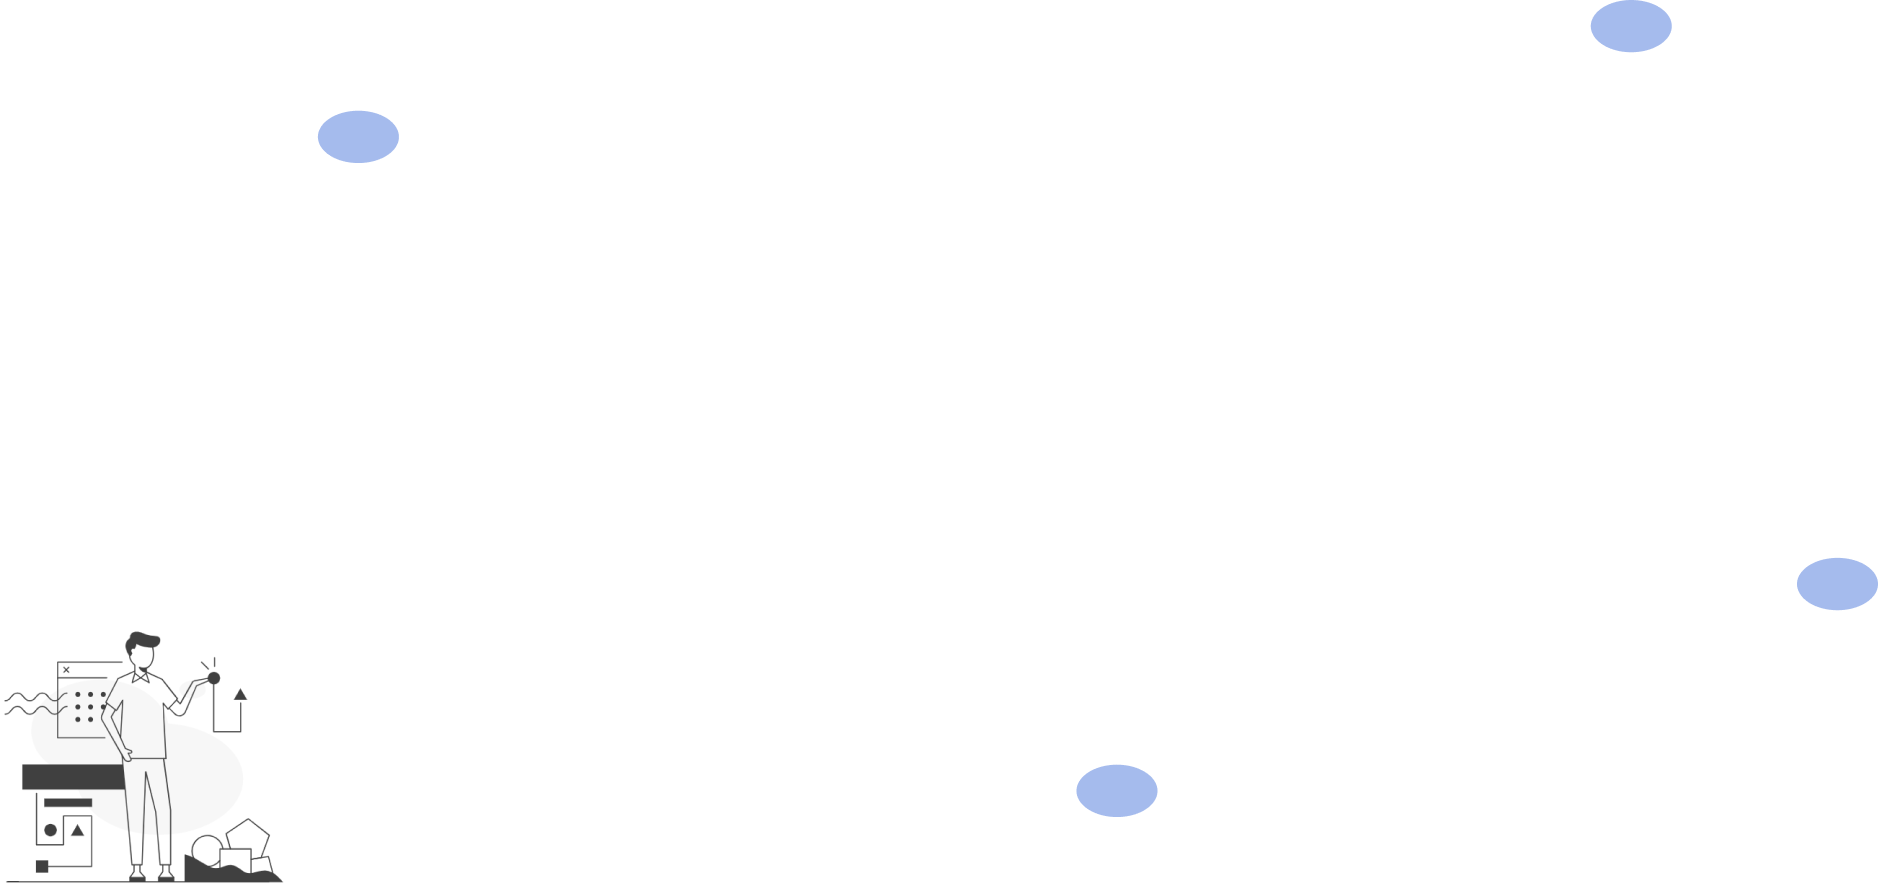
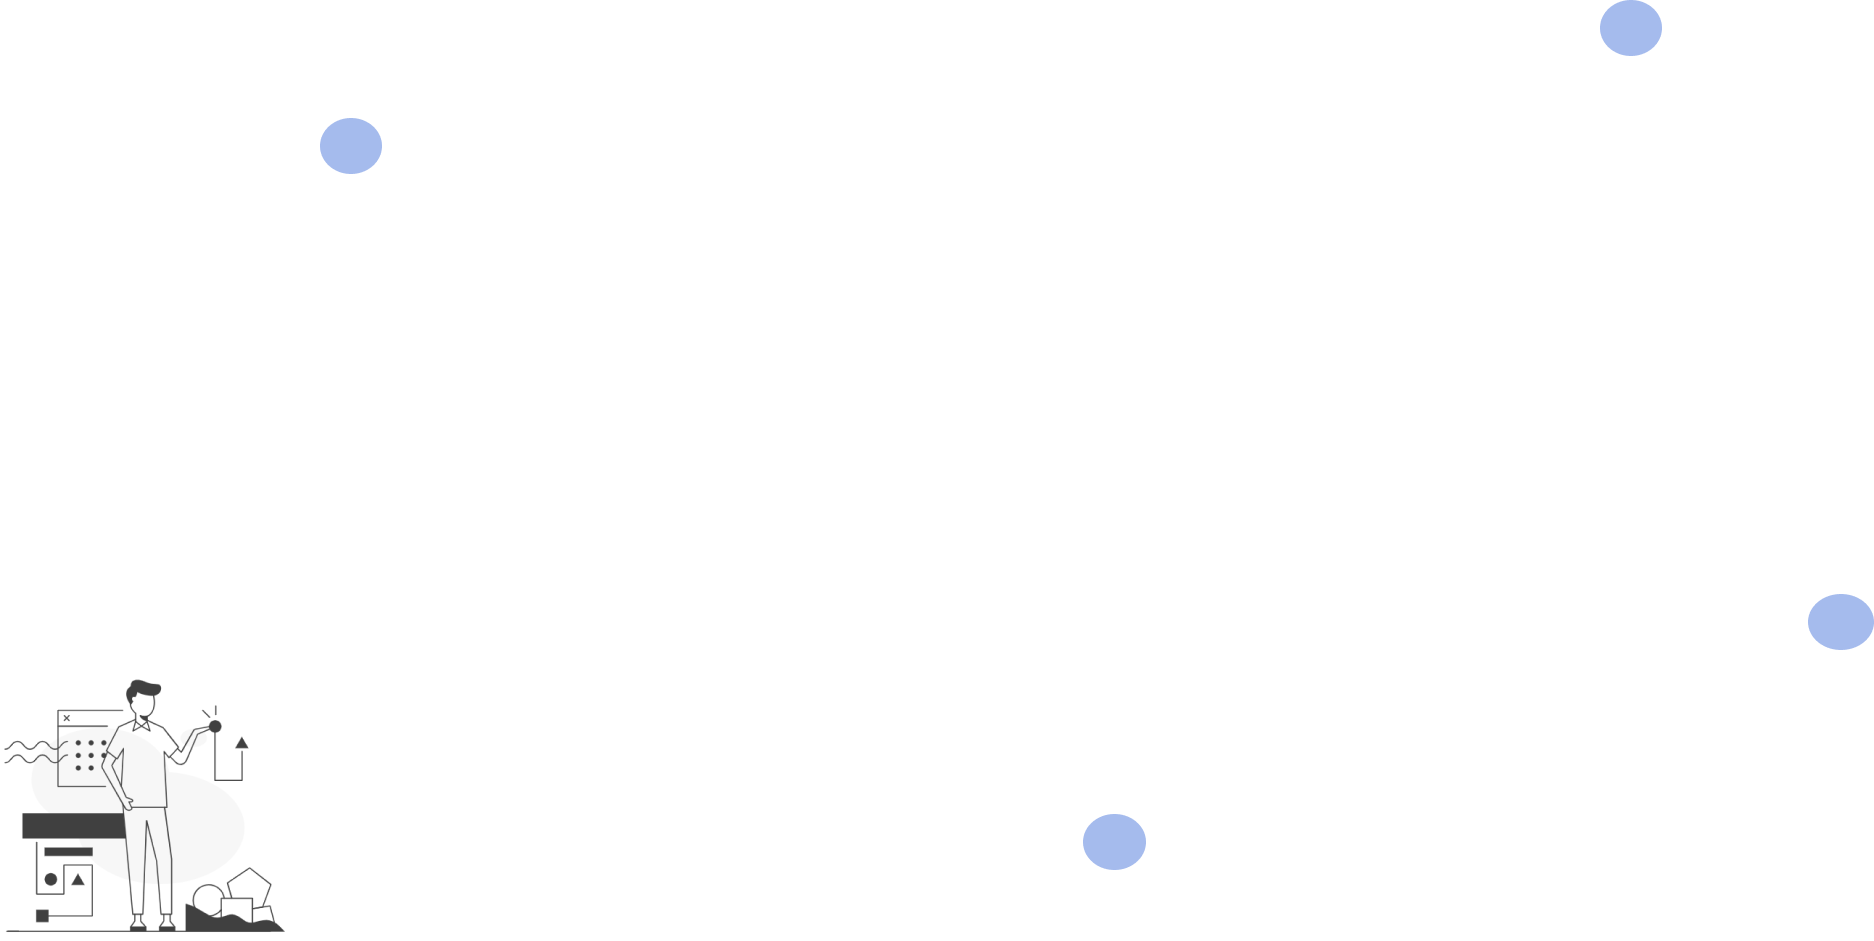
tela de home do adm terminada
commit para enviar a tela de home do adm

diff --git a/css/styles.css b/css/styles.css
@@ -2342,85 +2342,75 @@ input.cadastrovagas {
 /* ADM HOME */
 
 .body-adm-home{
-    background-color:#D9D9D9;
+    background-color:#ffffff;
 }
+
 
 .main-adm-home{
     font-family: Verdana, Geneva, Tahoma, sans-serif;
-    /* background-image:url(../Imagens/background-image-adm-home.png);
-    background-repeat:no-repeat; */
 }
 
-/* .sphere-adm-home{
-    position:absolute;
-    height: 72px;
-    width: 80px;
-    background-color: #1E55D1;
-    border-radius: 50%;
-    display: inline-block;
-    margin-top:3.5rem;
-    left:85%;
-    opacity:50%;
+@media(min-width:1140px){
+    .main-adm-home{
+        background-image:url(../Imagens/background-image-adm-home.png);
+        background-repeat:no-repeat;
+    }
 }
-
-.sphere-adm-home2{
-    position:absolute;
-    height: 72px;
-    width: 80px;
-    background-color: #1E55D1;
-    border-radius: 50%;
-    display: inline-block;
-    margin-top:13rem;
-    left:15%;
-    opacity:50%;
-}
-
-.sphere-adm-home3{
-    position:absolute;
-    height: 72px;
-    width: 80px;
-    background-color: #1E55D1;
-    border-radius: 50%;
-    display: inline-block;
-    margin-top:45rem;
-    left:94%;
-    opacity:50%;
-}
-
-.sphere-adm-home4{
-    position:absolute;
-    height: 72px;
-    width: 80px;
-    background-color: #1E55D1;
-    border-radius: 50%;
-    display: inline-block;
-    margin-top:56rem;
-    left:46%;
-    opacity:50%;
-} */
 
 #label-bem-vindos-adm-home{
     margin-top:10rem;
     position:absolute;
+    font-size:x-large;
 }
-#label-quadrados-1-adm-home{
-    background-color:#970FF2;
-    color:#FFFFFF;
-    border-radius:5%;
-    padding:50px;
+
+ /* faz os quadrados ficarem alinhados horizontalmente */
+@media(min-width:992px){
+    #label-quadrados-1-adm-home{
+        background-color:#970FF2;
+        color:#FFFFFF;
+        border-radius:5%;
+        padding:50px;
+    }
+    #label-quadrados-2-adm-home{
+        background-color:#F24607;
+        color:#FFFFFF;
+        border-radius:5%;
+        padding:50px;
+    }
+    #label-quadrados-3-adm-home{
+        background-color:#49D907;
+        color:#FFFFFF;
+        border-radius:5%;
+        padding:50px;
+    }
 }
-#label-quadrados-2-adm-home{
-    background-color:#F24607;
-    color:#FFFFFF;
-    border-radius:5%;
-    padding:50px;
+
+ /* faz os quadrados ficarem alinhados verticalmente */
+@media(max-width:991px){
+    #label-quadrados-1-adm-home{
+        background-color:#970FF2;
+        color:#FFFFFF;
+        border-radius:5%;
+        padding:50px;
+        margin:25px;
+    }
+    #label-quadrados-2-adm-home{
+        background-color:#F24607;
+        color:#FFFFFF;
+        border-radius:5%;
+        padding:50px;
+        margin:25px;
+    }
+    #label-quadrados-3-adm-home{
+        background-color:#49D907;
+        color:#FFFFFF;
+        border-radius:5%;
+        padding:50px;
+        margin:25px;
+    }
 }
-#label-quadrados-3-adm-home{
-    background-color:#49D907;
-    color:#FFFFFF;
-    border-radius:5%;
-    padding:50px;
-}
+
+
 #row-2-adm-home{
     margin-top:18rem;
     font-size:x-large;
@@ -2435,8 +2425,3 @@ input.cadastrovagas {
     width:300px;
     box-shadow:none;
 }
-
-#adm-home-img-2{
-    width:500px;
-}
-

diff --git a/pages/adm-home.html b/pages/adm-home.html
@@ -15,7 +15,9 @@
         <link href="https://fonts.googleapis.com/css2?family=Montserrat:wght@700&display=swap" rel="stylesheet">
     </head>
     <body class="body-adm-home">
-        <header>
+
+        <!--Menu de Navegação-->
+        <header> 
             <nav class="navbar navbar-dark bg-primary fixed-top nav-adm">
                 <div class="container-fluid">
                     <div class="md-auto">
@@ -79,21 +81,21 @@
                 </div>
               </nav>        
         </header>
+
+        <!--Conteúdo da página-->
         <main class="main-adm-home">
-          <!-- <div class="sphere-adm-home"></div>
-          <div class="sphere-adm-home2"></div>
-          <div class="sphere-adm-home3"></div>
-          <div class="sphere-adm-home4"></div> -->
           <div class="container" id="container-1-adm-home">
             <div class="row justify-content-center" id="row-1-adm-home">
               <div class="col-sm-12 col-lg-8" id="label-bem-vindos-adm-home">
                 <b><p class="text-center">Bem Vindo!!!</p></b>  
               </div>
             </div>
+
+            <!--Quadrados com as informações-->
             <div class="row justify-content-center" id="row-2-adm-home">
               <div class="col-sm-12 col-lg-3" id="label-quadrados-1-adm-home">
                 <p class="text-center">217<br>Projetos Submetidos</p>
-              </div>
+            </div>
               <div class="col-sm-12 col-lg-3 offset-lg-1" id="label-quadrados-2-adm-home">
                 <p class="text-center">218<br>Inscrição - Vagas de Emprego</p>
               </div>
@@ -102,16 +104,17 @@
               </div>
             </div>
           </div>
+          
+          <!--Imagem dos gráficos-->
           <div class="container" id="container-2-adm-home-imagem">
-            <div class="row align-items-center">
-              <!-- <div class="col-sm-12 col-lg-4">
-                <p class="text-left"><img src="../Imagens/imagem_carinha_adm_home.png" class="img-fluid" alt="Responsive image" id="adm-home-img-1"></p>  
-              </div> -->
+            <div class="row justify-content-center">
               <div class="col-sm-12 col-lg-8">
                 <img src="../Imagens/imagem_grafico_adm_home.png" class="img-fluid" alt="Responsive image" id-="adm-home-img-2">
               </div>
             </div>
           </div>
       </main>
+
     </body>
+
 </html>
